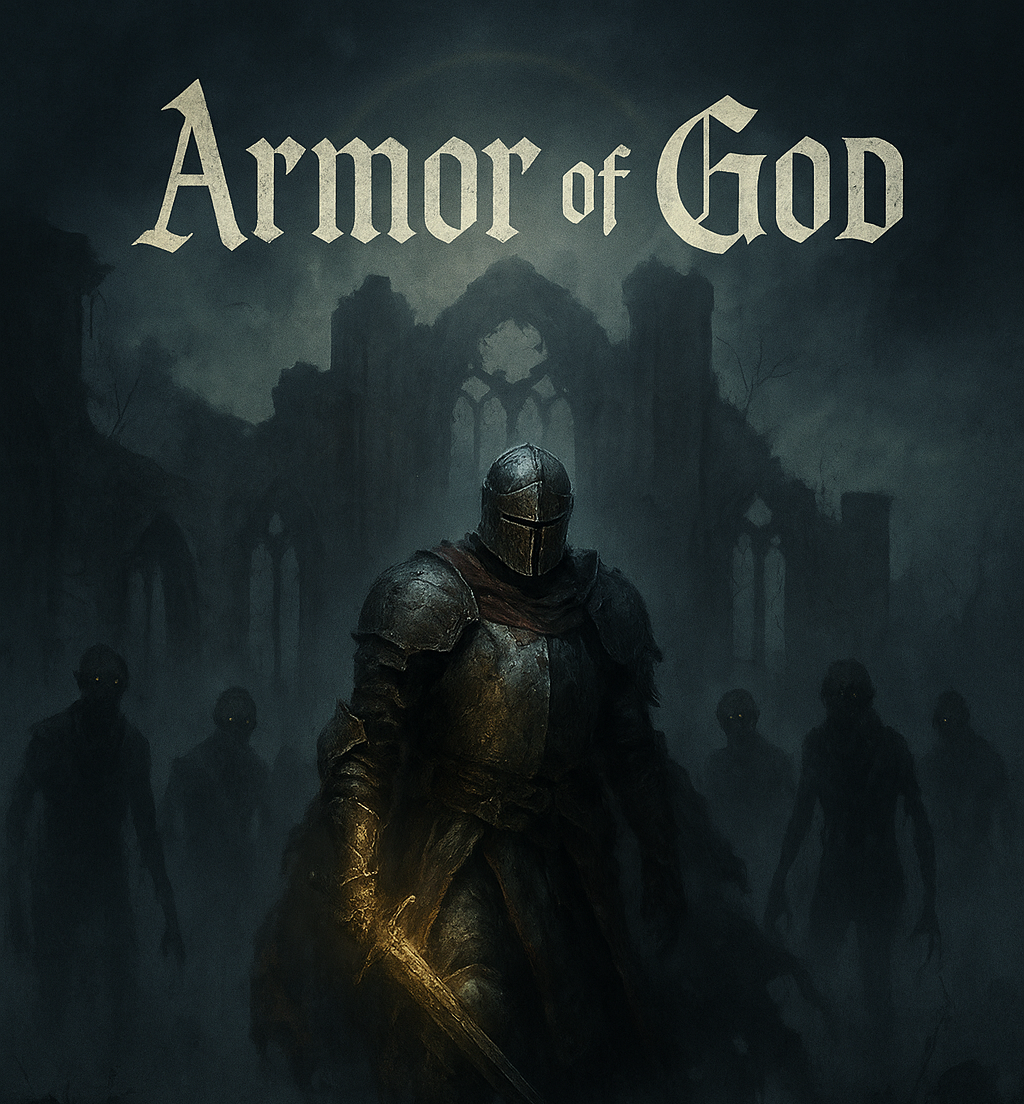
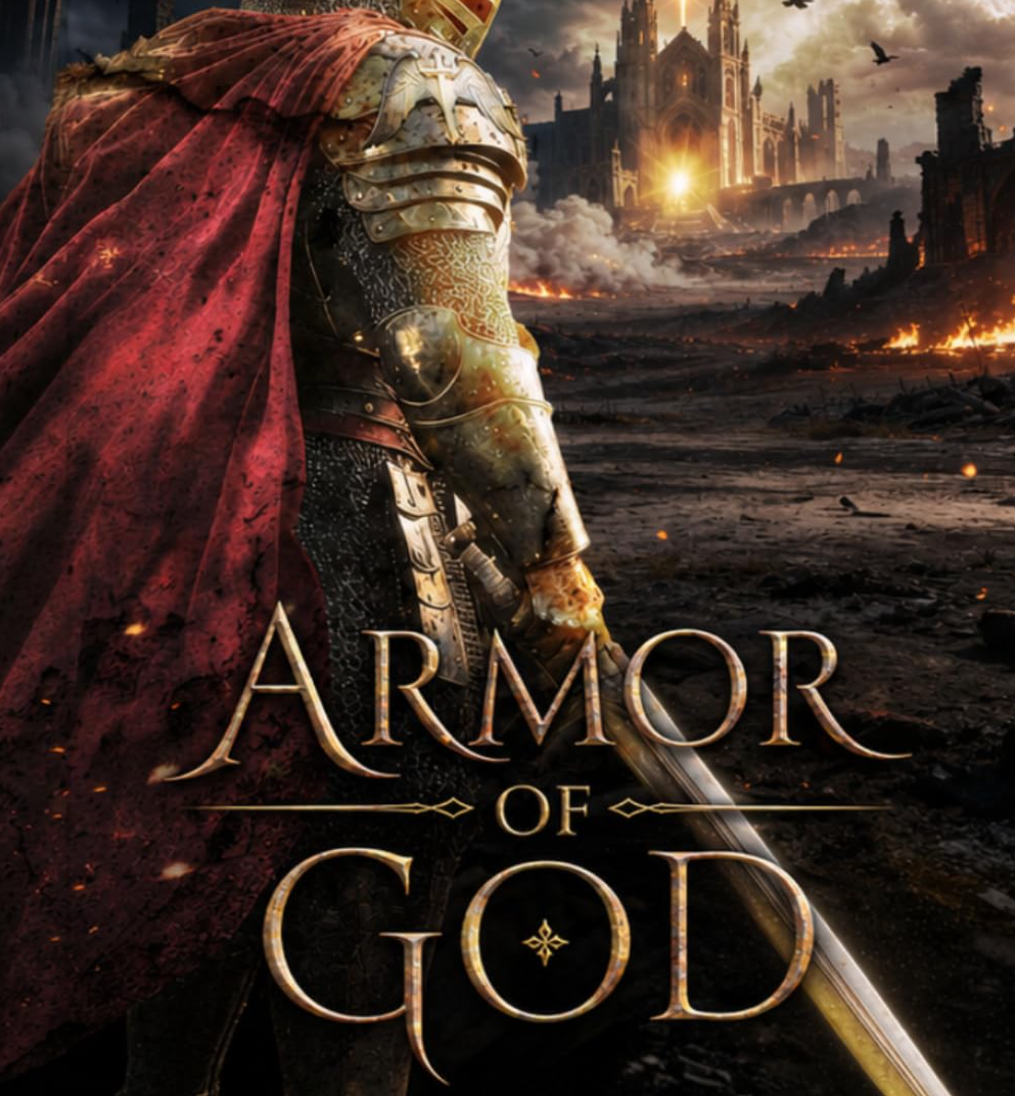
New added images, removed duplicate projects, changed descriptions and skills, changed armor of god fixed link

diff --git a/index.html b/index.html
@@ -80,10 +80,14 @@
                     <h1>I'm Nick Marmaras.</h1>
 
                     <h3>
-                    I'm software based <span>XR Software Engineer</span>, <span>Game Developer</span> and <span>Software Engineer</span> creating awesome and
-                    effective 2D-3D games. Let's <a class="smoothscroll" href="#about">start scrolling</a>
-                    and learn more <a class="smoothscroll" href="#about">about me</a>.
+                        I build reliable <span>technical software</span>,
+                        <span>real-time XR systems</span>, and
+                        <span>user-focused applications</span>.
+                        Based in Geneva, I work across Unity, Unreal Engine, Python, C++ and C#/.NET—combining measurement software, hardware integration, and performance-focused interactive systems.
+                        <a class="smoothscroll" href="#about">Learn more about me</a>
+                        or <a class="smoothscroll" href="#portfolio">explore my work</a>.
                     </h3>
+
 
                     <div class="s-hero__content-social">
                         <a href="https://www.facebook.com/profile.php?id=1755053703"><i class="fab fa-facebook-square" aria-hidden="true"></i></a>
@@ -121,12 +125,13 @@
             <div class="column large-9 tab-12 s-about__content">
                 <h3>About Me</h3>
                 <p>
-                    I'm an XR Software Engineer and Game Developer focused on building immersive, high-quality interactive experiences.
-                    At OramaVR, I work on medical XR simulation using Unity and Unreal Engine, combining real-time systems, gameplay thinking,
-                    and user-focused design to create training experiences that are both technically strong and engaging to use.
-                    I'm especially motivated by projects that sit at the intersection of software engineering, games, and extended reality,
-                    and I use side projects as a space to experiment, learn fast, and keep sharpening my craft.
-                    Outside of work, I recharge through gaming, guitar, and reading.
+                    I am a Software Engineer based in Geneva with experience building measurement applications, real-time XR systems, SDK-level features, and user-focused technical tools.
+                    At ORamaVR, I develop C# Unity and C++ Unreal Engine software for medical XR simulations. My work includes interactive runtime systems, hardware tracking integration, 
+                    performance optimisation, and reliable workflows across commercial XR devices.
+                    Previously, at Telemetrics System Measurements, I developed Python and C#/.NET desktop applications for electrical and electronic measurement systems, including data 
+                    acquisition, visualisation, reporting, backend logic, and technical user interfaces.
+                    I enjoy work where software meets complex systems: simulation, monitoring, automation, hardware integration, and operational tooling. I use personal projects to keep
+                     developing practical software engineering skills across desktop applications, APIs, real-time systems, and technical UX.
                 </p>
 
                 <hr>
@@ -194,7 +199,7 @@
                     </div>
 
                     <p>
-                        Building medical XR training experiences that combine simulation depth, usability, and strong real-time performance across Unity and Unreal Engine.
+                        Develop C# Unity and C++ Unreal Engine software for medical XR simulations, including SDK-level features, interactive runtime systems, hardware tracking integration, and real-time performance optimisation.
                     </p>
                     <ul>
                         <li>Develop software features in C# for Unity and C++ for Unreal Engine.</li>
@@ -221,12 +226,12 @@
                     </div>
 
                     <p>
-                        Designed and delivered software for electrical and electronic measurement systems, working closely with leadership to turn requirements into practical engineering solutions.
+                        Developed Python and C#/.NET desktop applications for electrical and electronic measurement systems.
                     </p>
                     <ul>
-                        <li>Designed interfaces and developed software for electrical and electronic measurement systems.</li>
-                        <li>Worked directly with the CEO to gather requirements and align technical direction with business needs.</li>
-                        <li>Presented implementation progress and results to the technical team.</li>
+                        <li>Built tools for data acquisition, visualisation, reporting, and backend logic.</li>
+                        <li>Designed technical user interfaces and workflows for engineering users.</li>
+                        <li>Gathered requirements, tested workflows, and improved maintainability of internal tools.</li>
                     </ul>
 
                 </div> <!-- end resume-block -->
@@ -520,32 +525,8 @@
                 </a>
             </div> <!-- end folio-item -->
 
-            <div class="column folio-item" data-category="postgraduate">
-                <a data-content="Zombie Survival" href="#modal-12" class="folio-item__thumb">
-                    <img loading="lazy" decoding="async" src="images/portfolio/ZombieMenu.png"
-                         srcset="images/portfolio/ZombieMenu.png 1x,
-                                 images/portfolio/ZombieMenu.png 2x" alt="">
-                </a>
-            </div> <!-- end folio-item -->
-
-            <div class="column folio-item" data-category="postgraduate">
-                <a data-content="NPC Game" href="#modal-13" class="folio-item__thumb">
-                    <img loading="lazy" decoding="async" src="images/portfolio/NPCCover.png"
-                         srcset="images/portfolio/NPCCover.png 1x,
-                                 images/portfolio/NPCCover.png 2x" alt="">
-                </a>
-            </div> <!-- end folio-item -->
-
-            <div class="column folio-item" data-category="postgraduate">
-                <a data-content="Google" href="#modal-14" class="folio-item__thumb">
-                    <img loading="lazy" decoding="async" src="images/portfolio/Cardboard.png"
-                         srcset="images/portfolio/Cardboard.png 1x,
-                                 images/portfolio/Cardboard.png 2x" alt="">
-                </a>
-            </div> <!-- end folio-item -->
-
             <div class="column folio-item" data-category="games">
-                <a data-content="Sly 2" href="#modal-15" class="folio-item__thumb">
+                <a data-content="Sly 2" href="#modal-12" class="folio-item__thumb">
                     <img loading="lazy" decoding="async" src="images/portfolio/Sly.png"
                          srcset="images/portfolio/Sly.png 1x,
                                  images/portfolio/Sly.png 2x" alt="Tiele">
@@ -553,7 +534,7 @@
             </div> <!-- end folio-item -->
 
             <div class="column folio-item" data-category="games">
-                <a data-content="Hellas Logo Quiz" href="#modal-16" class="folio-item__thumb">
+                <a data-content="Hellas Logo Quiz" href="#modal-13" class="folio-item__thumb">
                     <img loading="lazy" decoding="async" src="images/portfolio/Logo.png"
                          srcset="images/portfolio/Logo.png 1x,
                                  images/portfolio/Logo.png 2x" alt="Tiele">
@@ -561,7 +542,7 @@
             </div> <!-- end folio-item -->
 
             <div class="column folio-item" data-category="games">
-                <a data-content="Armor Of God" href="#modal-17" class="folio-item__thumb">
+                <a data-content="Armor Of God" href="#modal-14" class="folio-item__thumb">
                     <img loading="lazy" decoding="async" src="images/portfolio/ArmorOfGod.png"
                          srcset="images/portfolio/ArmorOfGod.png 1x,
                                  images/portfolio/ArmorOfGod.png 2x" alt="Tiele">
@@ -569,7 +550,7 @@
             </div> <!-- end folio-item -->
 
             <div class="column folio-item" data-category="games">
-                <a data-content="Marmatrix" href="#modal-18" class="folio-item__thumb">
+                <a data-content="Marmatrix" href="#modal-15" class="folio-item__thumb">
                     <img loading="lazy" decoding="async" src="images/portfolio/Marmatrix.png"
                          srcset="images/portfolio/Marmatrix.png 1x,
                                  images/portfolio/Marmatrix.png 2x" alt="Tiele">
@@ -577,10 +558,10 @@
             </div> <!-- end folio-item -->
 
             <div class="column folio-item" data-category="web">
-                <a data-content="BarakiBar Web PDA" href="#modal-19" class="folio-item__thumb folio-item__thumb--baraki">
-                    <img loading="lazy" decoding="async" src="images/portfolio/BarTab.svg"
-                         srcset="images/portfolio/BarTab.svg 1x,
-                                 images/portfolio/BarTab.svg 2x" alt="BarakiBar Web PDA ASP.NET Core POS dashboard preview">
+                <a data-content="BarakiBar Web PDA" href="#modal-16" class="folio-item__thumb folio-item__thumb--baraki">
+                    <img loading="lazy" decoding="async" src="images/portfolio/BarTab.png"
+                         srcset="images/portfolio/BarTab.png 1x,
+                                 images/portfolio/BarTab.png 2x" alt="BarakiBar Web PDA ASP.NET Core POS dashboard preview">
                 </a>
             </div> <!-- end folio-item -->
 
@@ -943,68 +924,6 @@
 
         <div id="modal-12" hidden>
             <div class="modal-popup">
-                <img data-src="images/portfolio/ZombieGameplay.png" alt="" />
-
-                <div class="modal-popup__desc">
-                    <h5>Zombie Survival</h5>
-                    <p>A fast-paced survival shooter built in Unity, where players fend off waves of zombies in a stylized post-apocalyptic setting powered by HDRP visuals and cinematic presentation.</p>
-                    <ul>
-                        <li>HDRP</li>
-                        <li>Survival</li>
-                    </ul>
-                    <ul class="modal-popup__cat">
-                        <li>Unity</li>
-                        <li>First Person Shooter</li>
-                    </ul>
-                </div>
-                <a href="https://drive.google.com/drive/folders/1FFwt9ybTGK2XFg1ia1l-2l6BFyaffMDf" class="modal-popup__details">Project link</a>
-            </div>
-        </div> <!-- end modal -->
-
-        <div id="modal-13" hidden>
-            <div class="modal-popup">
-                <img data-src="images/portfolio/NPCInternal.png" alt="" />
-
-                <div class="modal-popup__desc">
-                    <h5>NPC Game</h5>
-                    <p>A Unity FPS prototype focused on companion AI, featuring a drone assistant with behavior states for following, attacking, idling, and collecting health pickups in response to player context.</p>
-                    <ul>
-                        <li>Idle mode -> spins around the player when the player is not moving</li>
-                        <li>Follow mode -> tracks the player from its last known position</li>
-                        <li>Attack mode -> launches particles when the closest enemy enters range</li>
-                        <li>Health pickup mode -> retrieves the nearest health pack and returns to the player</li>
-                    </ul>
-                    <ul class="modal-popup__cat">
-                        <li>Unity</li>
-                        <li>First Person Shooter</li>
-                    </ul>
-                </div>
-                <a href="https://drive.google.com/drive/folders/1FFwt9ybTGK2XFg1ia1l-2l6BFyaffMDf" class="modal-popup__details">Project link</a>
-            </div>
-        </div> <!-- end modal -->
-
-        <div id="modal-14" hidden>
-            <div class="modal-popup">
-                <img data-src="images/portfolio/Cardboard1.png" alt="" />
-
-                <div class="modal-popup__desc">
-                    <h5>Google Cardboard game</h5>
-                    <p>A mobile-first infinite runner designed for Google Cardboard, using smartphone movement as the core input for dodging obstacles, jumping, and chasing higher scores in VR.</p>
-                    <ul>
-                        <li>Infinite Runner</li>
-                        <li>Survival</li>
-                    </ul>
-                    <ul class="modal-popup__cat">
-                        <li>Unity</li>
-                        <li>Google</li>
-                    </ul>
-                </div>
-                <a href="https://drive.google.com/drive/folders/1FFwt9ybTGK2XFg1ia1l-2l6BFyaffMDf" class="modal-popup__details">Project link</a>
-            </div>
-        </div> <!-- end modal -->
-
-        <div id="modal-15" hidden>
-            <div class="modal-popup">
                 <img data-src="images/portfolio/SlyCooper.png" alt="" />
 
                 <div class="modal-popup__desc">
@@ -1027,7 +946,7 @@
             </div>
         </div> <!-- end modal -->
 
-        <div id="modal-16" hidden>
+        <div id="modal-13" hidden>
             <div class="modal-popup">
                 <img data-src="images/portfolio/LogoQuiz.png" alt="" />
 
@@ -1048,13 +967,13 @@
             </div>
         </div> <!-- end modal -->
 
-        <div id="modal-17" hidden>
+        <div id="modal-14" hidden>
             <div class="modal-popup">
                 <img data-src="images/portfolio/ArmorOfGodLandScape.png" alt="" />
 
                 <div class="modal-popup__desc">
                     <h5>Armor Of God</h5>
-                    <p>Armor Of God is a dark fantasy action concept set in a world of ruined cathedrals, cursed forests, and fading faith, where a fallen Templar hunts the scattered relics of a sacred armor that could decide the fate of the world.</p>
+                    <p>Armor Of God is a dark fantasy action concept set in a world of ruined cathedrals, cursed forests, and fading faith, where a fallen Templar hunts the scattered relics of a sacred armor that could decide the fate of the world. Book is published on Amazon, and a new exciting story begins in Unreal Engine 5.</p>
                     <ul>
                         <li>Armor Of God</li>
                         <li>Single Player</li>
@@ -1064,11 +983,11 @@
                         <li>PC</li>
                     </ul>
                 </div>
-                <a href="" class="modal-popup__details">Project link</a>
+                <a href="https://www.amazon.de/dp/B0H3HPD733?source=ps-sl-shoppingads-lpcontext&ref_=fplfs&psc=1&smid=A3JWKAKR8XB7XF&language=de_DE" class="modal-popup__details">Project link</a>
             </div>
         </div> <!-- end modal -->
 
-        <div id="modal-18" hidden>
+        <div id="modal-15" hidden>
             <div class="modal-popup">
                 <img data-src="images/portfolio/MarmatrixLandscape.png" alt="" />
 
@@ -1092,9 +1011,9 @@
             </div>
         </div> <!-- end modal -->
 
-        <div id="modal-19" hidden>
+        <div id="modal-16" hidden>
             <div class="modal-popup">
-                <img data-src="images/portfolio/BarTabLandscape.svg" alt="BarakiBar Web PDA dashboard preview" />
+                <img data-src="images/portfolio/BarTabLandscape.png" alt="BarakiBar Web PDA dashboard preview" />
 
                 <div class="modal-popup__desc">
                     <h5>BarakiBar Web PDA</h5>
@@ -1140,8 +1059,7 @@
             <div class="column large-7 medium-12">
 
                 <h4 class="huge-text">
-                Have a game, XR experience, or software idea in mind?
-                Let's turn it into something polished, playful, and memorable.
+                Interested in software engineering, XR, simulation, monitoring, or technical tooling? Let’s talk.
                 </h4>
 
             </div>